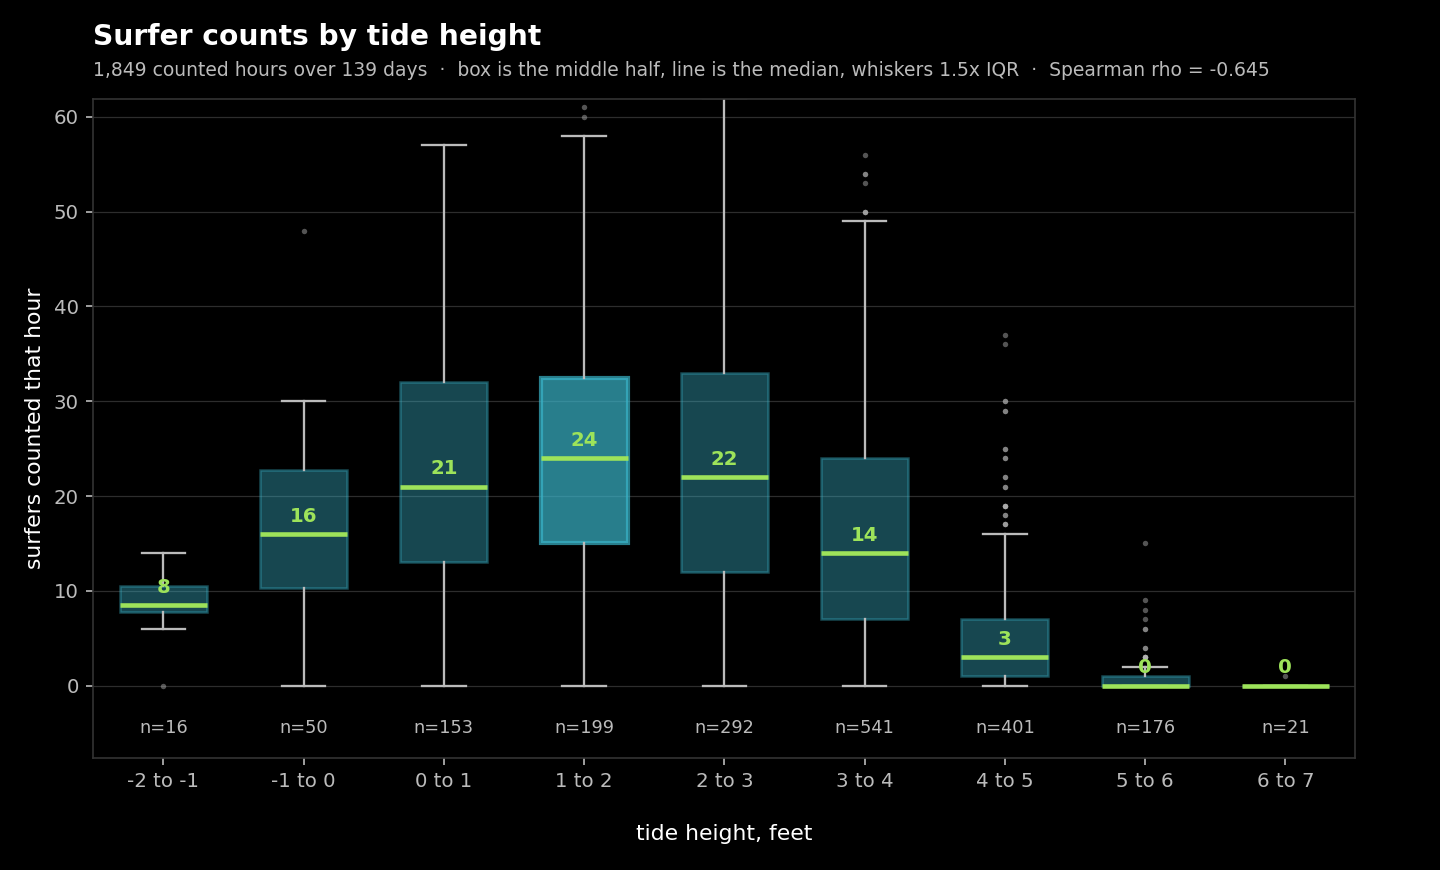
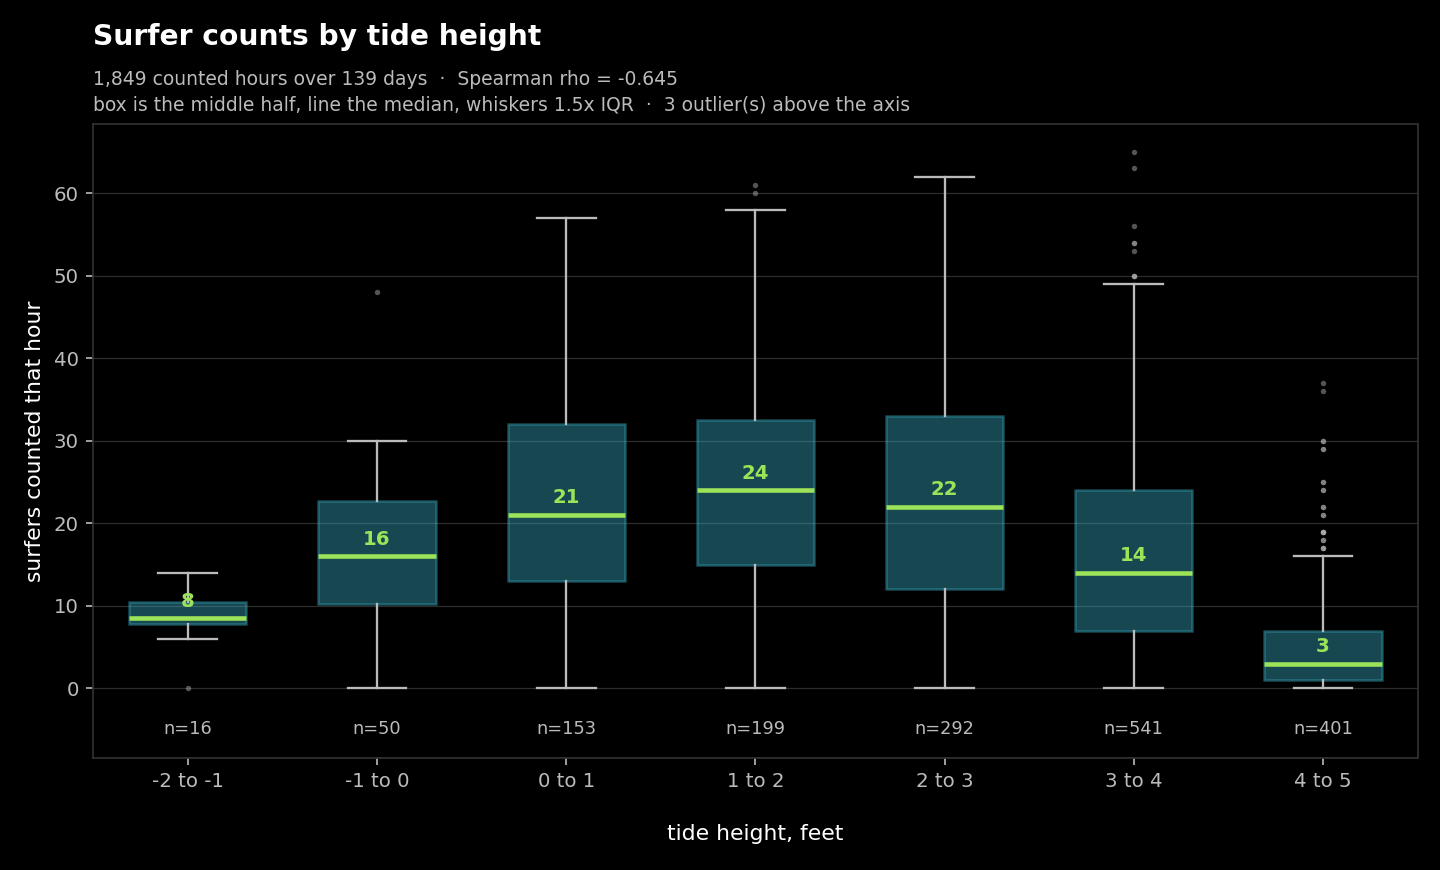
Trim the tide box plot, add the same chart by day of week
Tide chart, per Joel: drop the 5-6 and 6-7 ft bands (median 0, IQR 0-1 across
197 hours -- width without information), and scale the y axis to the tallest
WHISKER rather than the tallest outlier so the 2-3 ft whisker at 62 is visible.
Three outliers now fall above the axis and the caption says so.

Also removed the raised opacity on the 1-2 ft box. Joel asked what the colour
meant, which is the answer: it was marking the peak band with nothing to
explain it, and encoding meaning in colour alone with no key is exactly what
the median labels already do properly. All boxes now identical.

New chart, same form so the two read as a pair: hourly counts by day of week.
Medians run Wed 7, Mon/Tue 10, Thu 11, Fri 12, Sat/Sun 14. Kruskal-Wallis
across the seven days H=45.8 p<0.0001, and weekend vs weekday rho=+0.140
p=1.3e-09.

The script prints each day's MEAN TIDE alongside, because tide drives hourly
count far harder than the day of week does (rho -0.645 against +0.140) and
there is no guarantee it balances across weekdays in a 139-day sample. It
happens to be fine here -- 2.96 to 3.30 ft across the seven days, far too
narrow to manufacture the Sat/Sun gap -- but the check is printed rather than
assumed, so the next person does not have to take it on trust.

Claude-Session: https://claude.ai/code/session_01C2GCpQELsJRUSZjSZDcA3i

diff --git a/analysis/weekday_weekend_patterns/plot_count_by_weekday.py b/analysis/weekday_weekend_patterns/plot_count_by_weekday.py
@@ -1,0 +1,111 @@
+"""
+plot_count_by_weekday.py
+------------------------
+Distribution of hourly surfer counts by day of the week.
+
+Same box-per-group form as analysis/tide_patterns/plot_tide_vs_count.py, so the
+two read as a pair: the question in both is how the whole distribution moves,
+not just its centre.
+
+A caution this chart cannot show on its own. Tide is by far the strongest
+driver of hourly count (Spearman rho = -0.645), and tide is independent of
+clock time but NOT guaranteed to be balanced across weekdays in a 139-day
+sample. The script prints each day's mean tide so an apparent weekday effect
+can be checked against it before being believed.
+
+Usage:
+    python analysis/weekday_weekend_patterns/plot_count_by_weekday.py
+"""
+from __future__ import annotations
+
+import sys
+from pathlib import Path
+
+import matplotlib
+matplotlib.use("Agg")
+import matplotlib.pyplot as plt
+import numpy as np
+import pandas as pd
+from scipy import stats as st
+
+HERE = Path(__file__).resolve().parent
+ROOT = HERE.parent.parent
+FEATURES = ROOT / "data" / "training_features.csv"
+
+BG, INK, INK_DIM, GRID = "black", "white", "#bbbbbb", "#333333"
+AQUA, LIME = "#3ab4c9", "#9de35a"
+DAYS = ["Mon", "Tue", "Wed", "Thu", "Fri", "Sat", "Sun"]
+
+
+def main():
+    t = pd.read_csv(FEATURES).dropna(subset=["surfer_count"])
+    t["date"] = pd.to_datetime(t.filename.str.extract(r"(\d{4}-\d{2}-\d{2})")[0])
+    t["dow"] = t.date.dt.dayofweek
+
+    groups = [t.loc[t.dow == i, "surfer_count"].values for i in range(7)]
+    ns = [len(g) for g in groups]
+    tides = [t.loc[t.dow == i, "tide_ft"].mean() for i in range(7)]
+    ndays = [t.loc[t.dow == i, "date"].nunique() for i in range(7)]
+
+    def upper_whisker(g):
+        q1, q3 = np.percentile(g, [25, 75])
+        return max(g[g <= q3 + 1.5 * (q3 - q1)], default=q3)
+    top = max(upper_whisker(g) for g in groups) * 1.04
+    n_clipped = int(sum((g > top).sum() for g in groups))
+
+    fig, ax = plt.subplots(figsize=(9.6, 5.8), facecolor=BG)
+    ax.set_facecolor(BG)
+    ax.grid(True, axis="y", color=GRID, linewidth=0.6, alpha=0.9)
+    ax.set_axisbelow(True)
+    for sp in ax.spines.values():
+        sp.set_color(GRID)
+    ax.tick_params(colors=INK_DIM, labelsize=9.5)
+
+    bp = ax.boxplot(groups, patch_artist=True, widths=0.62, showfliers=True,
+                    medianprops=dict(color=LIME, linewidth=2.2),
+                    whiskerprops=dict(color=INK_DIM, linewidth=1.1),
+                    capprops=dict(color=INK_DIM, linewidth=1.1),
+                    flierprops=dict(marker="o", markersize=2.6,
+                                    markerfacecolor=INK_DIM, markeredgecolor="none",
+                                    alpha=0.45))
+    for box in bp["boxes"]:
+        box.set(facecolor=AQUA, alpha=0.40, edgecolor=AQUA, linewidth=1.2)
+
+    for i, (g, n) in enumerate(zip(groups, ns), 1):
+        ax.text(i, -top * 0.085, f"n={n}", ha="center", color=INK_DIM, fontsize=8.5)
+        ax.text(i, np.median(g) + top * 0.022, f"{np.median(g):.0f}", ha="center",
+                color=LIME, fontsize=9.5, fontweight="bold")
+
+    ax.set_xticklabels(DAYS, fontsize=9.5)
+    ax.set_xlabel("day of week", color=INK, fontsize=10.5, labelpad=16)
+    ax.set_ylabel("surfers counted that hour", color=INK, fontsize=10.5)
+    ax.set_ylim(-top * 0.13, top * 1.06)
+    ax.set_title("Surfer counts by day of the week", color=INK, fontsize=13.5,
+                 fontweight="bold", loc="left", pad=38)
+    ax.text(0, 1.062,
+            f"{len(t):,} counted hours over {t.date.nunique()} days",
+            transform=ax.transAxes, color=INK_DIM, fontsize=9)
+    ax.text(0, 1.022,
+            "box is the middle half, line the median, whiskers 1.5x IQR"
+            + (f"  ·  {n_clipped} outlier(s) above the axis" if n_clipped else ""),
+            transform=ax.transAxes, color=INK_DIM, fontsize=9)
+
+    fig.tight_layout()
+    out = HERE / f"count_by_weekday_{t.date.max():%Y-%m-%d}.png"
+    fig.savefig(out, facecolor=BG, dpi=150)
+    print(f"saved {out}\n")
+    print(f"{'day':>5s}{'days':>6s}{'hours':>7s}{'median':>8s}{'IQR':>10s}{'mean tide':>11s}")
+    for i, d in enumerate(DAYS):
+        q1, med, q3 = np.percentile(groups[i], [25, 50, 75])
+        print(f"{d:>5s}{ndays[i]:6d}{ns[i]:7d}{med:8.1f}{f'{q1:.0f}-{q3:.0f}':>10s}{tides[i]:11.2f}")
+    kw = st.kruskal(*groups)
+    print(f"\nKruskal-Wallis across the 7 days: H={kw.statistic:.1f} p={kw.pvalue:.4f}")
+    r, p = st.spearmanr(t.dow >= 5, t.surfer_count)
+    print(f"weekend vs weekday (hourly): rho={r:+.3f} p={p:.2e}")
+    print(f"mean tide spread across days: {min(tides):.2f} to {max(tides):.2f} ft "
+          f"-- check any weekday effect against this")
+    return 0
+
+
+if __name__ == "__main__":
+    sys.exit(main())

diff --git a/analysis/tide_patterns/plot_tide_vs_count.py b/analysis/tide_patterns/plot_tide_vs_count.py
@@ -38,7 +38,9 @@ FEATURES = ROOT / "data" / "training_features.csv"
 
 BG, INK, INK_DIM, GRID = "black", "white", "#bbbbbb", "#333333"
 AQUA, LIME = "#3ab4c9", "#9de35a"
-EDGES = [-2, -1, 0, 1, 2, 3, 4, 5, 6, 7]
+# Stops at 5 ft: above that the lineup is simply empty (median 0, IQR 0-1
+# across 197 hours), so the bands add width without adding information.
+EDGES = [-2, -1, 0, 1, 2, 3, 4, 5]
 MIN_N = 15
 
 
@@ -73,10 +75,13 @@ def main():
     for box in bp["boxes"]:
         box.set(facecolor=AQUA, alpha=0.40, edgecolor=AQUA, linewidth=1.2)
 
-    peak = int(np.argmax([np.median(g) for g in groups]))
-    bp["boxes"][peak].set(alpha=0.70, linewidth=2.0)
-
-    top = max(np.percentile(g, 99) for g in groups)
+    # Scale to the tallest WHISKER, not the tallest outlier, so the boxes are
+    # legible. Outliers above the cut are clipped and the caption says so.
+    def upper_whisker(g):
+        q1, q3 = np.percentile(g, [25, 75])
+        return max(g[g <= q3 + 1.5 * (q3 - q1)], default=q3)
+    top = max(upper_whisker(g) for g in groups) * 1.04
+    n_clipped = int(sum((g > top).sum() for g in groups))
     for i, (g, n) in enumerate(zip(groups, ns), 1):
         ax.text(i, -top * 0.085, f"n={n}", ha="center", color=INK_DIM, fontsize=8.5)
         ax.text(i, np.median(g) + top * 0.022, f"{np.median(g):.0f}", ha="center",
@@ -87,11 +92,13 @@ def main():
     ax.set_ylabel("surfers counted that hour", color=INK, fontsize=10.5)
     ax.set_ylim(-top * 0.13, top * 1.06)
     ax.set_title("Surfer counts by tide height", color=INK, fontsize=13.5,
-                 fontweight="bold", loc="left", pad=26)
-    ax.text(0, 1.035,
-            f"{len(t):,} counted hours over {t.filename.str[4:14].nunique()} days  ·  "
-            f"box is the middle half, line is the median, whiskers 1.5x IQR  ·  "
-            f"Spearman rho = {rho:.3f}",
+                 fontweight="bold", loc="left", pad=38)
+    sub = (f"{len(t):,} counted hours over {t.filename.str[4:14].nunique()} days  ·  "
+           f"Spearman rho = {rho:.3f}")
+    ax.text(0, 1.062, sub, transform=ax.transAxes, color=INK_DIM, fontsize=9)
+    ax.text(0, 1.022,
+            "box is the middle half, line the median, whiskers 1.5x IQR"
+            + (f"  ·  {n_clipped} outlier(s) above the axis" if n_clipped else ""),
             transform=ax.transAxes, color=INK_DIM, fontsize=9)
 
     fig.tight_layout()
